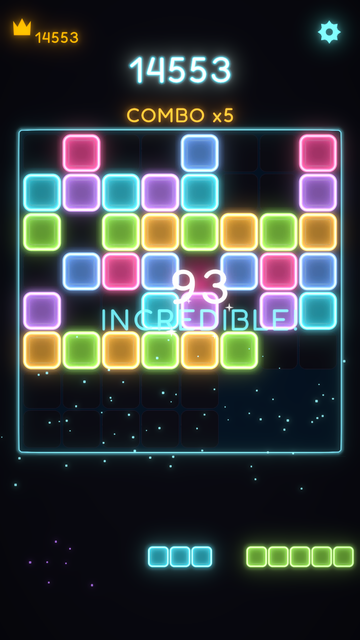
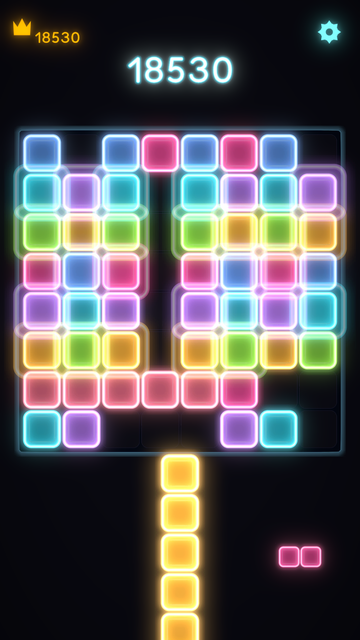
Stronger clear flare, a longer showcase clip, and a firmer praise word
The board frame could not flare because it had nowhere to go: measured at
rest its edge already sat at luminance 237, all but white, so a clear
pushed it to 252 and nobody could see the difference. Dropping the
resting edge to 150 in the sprite gives the flare headroom, and widening
the frame's outward bleed gives it light to throw.

  edge at rest -> at flare   237 -> 252   becomes   85 -> 237  (2.8x)
  light thrown past the edge  1.5x        becomes   7.3x

The praise word was thinned too far in the last pass: 0.11 outline at 8pt
lost to a board that is at its brightest exactly when the word appears.
Back to 10.5pt with a 0.16 outline, a near-white core rather than flat
cyan, and a stronger arrival flare. Saturated colour loses to a lit
board; a white core with the hue in the outline does not.

The README clip is now five placements over 8.5 seconds instead of one
drop over two. A single move is over before a viewer has worked out what
the game is.

74 EditMode tests, 455 offline assertions, all passing.

diff --git a/Assets/Scripts/GifCapture.cs b/Assets/Scripts/GifCapture.cs
@@ -26,6 +26,8 @@ public class GifCapture : MonoBehaviour
         new Color32(255, 178, 50, 255), new Color32(96, 158, 255, 255),
     };
 
+    public int Placements = 4;
+
     private IEnumerator Start()
     {
         if (string.IsNullOrEmpty(OutputDirectory)) yield break;
@@ -38,100 +40,129 @@ public class GifCapture : MonoBehaviour
         var spawn = FindAnyObjectByType<SpawnManager>();
         if (grid == null || gm == null || spawn == null) yield break;
 
-        // Let the title intro finish so it does not sit over the recording.
-        yield return new WaitForSeconds(2.2f);
+        yield return new WaitForSeconds(2.2f);   // let the title intro finish
 
         grid.ClearGrid();
         spawn.ClearTray();
         spawn.RefillTray();
-        yield return null;
+        SeedBoard(grid, 22);
+        if (ScoreManager.Instance != null) ScoreManager.Instance.ScoreTurn(400, 2);
+        yield return new WaitForSeconds(0.5f);   // let the seeding flare settle
 
-        BlockInstance piece = null;
-        Vector2Int anchor = Vector2Int.zero;
-        int bestRows = -1;
+        int frame = 0;
 
+        // Several moves rather than one: a single drop is over before a viewer has worked
+        // out what the game is. Every second placement is set up to clear, so the clip has
+        // a rhythm of ordinary moves punctuated by the thing worth showing.
+        for (int move = 0; move < Placements; move++)
+        {
+            BlockInstance piece = null;
+            Vector2Int anchor = Vector2Int.zero;
+            bool wantClear = move % 2 == 1;
+
+            if (!ChoosePlacement(grid, spawn, wantClear, ref piece, ref anchor))
+                if (!ChoosePlacement(grid, spawn, false, ref piece, ref anchor)) break;
+
+            if (wantClear) CompleteRowsAround(grid, piece, anchor);
+            yield return null;
+
+            Vector3 from = piece.transform.position;
+            Vector3 to = grid.CellToWorld(anchor.x, anchor.y) + new Vector3(0.4f, 1.2f, 0f);
+            piece.BeginDrag(from);
+
+            for (int k = 0; k < DragFrames; k++)
+            {
+                yield return new WaitForEndOfFrame();
+                Vector3 p = Vector3.Lerp(from, to, Easing.OutCubic(k / (float)(DragFrames - 1)));
+                piece.transform.position = p;
+                piece.DragTo(p, Vector3.zero);
+                Write(frame++);
+            }
+
+            piece.EndDrag();
+            gm.TryCommitPlacement(piece, anchor);
+
+            int settle = wantClear ? SettleFrames : SettleFrames / 3;
+            for (int k = 0; k < settle; k++)
+            {
+                yield return new WaitForEndOfFrame();
+                Write(frame++);
+            }
+
+            if (spawn.IsTrayEmpty) spawn.RefillTray();
+        }
+
+        Debug.Log($"[GifCapture] wrote {frame} frames to {OutputDirectory}");
+    }
+
+    /// <summary>Scatters colour over the board so a clear has something to read against.</summary>
+    private void SeedBoard(GridManager grid, int cells)
+    {
+        var single = new PlacementTable(new List<Vector2Int> { Vector2Int.zero }, grid.GridWidth, grid.GridHeight);
+        var rng = new System.Random(20260901);
+        int placed = 0, guard = 0;
+
+        while (placed < cells && guard++ < 400)
+        {
+            int x = rng.Next(grid.GridWidth);
+            int y = rng.Next(grid.GridHeight);
+            if (!grid.IsCellEmpty(x, y)) continue;
+            if (grid.TryPlace(single, x, y, Hues[(x * 3 + y * 5) % Hues.Length], out _)) placed++;
+        }
+    }
+
+    /// <summary>
+    /// Picks a tray piece and a legal anchor. When a clear is wanted it prefers a piece
+    /// spanning two or more rows, so completing them is worth watching.
+    /// </summary>
+    private bool ChoosePlacement(GridManager grid, SpawnManager spawn, bool preferTall,
+                                 ref BlockInstance piece, ref Vector2Int anchor)
+    {
+        // int.MinValue, not -1: when a short piece is wanted the score is negative, so a
+        // -1 floor rejected every candidate and the capture picked nothing at all.
+        int best = int.MinValue;
         foreach (BlockInstance p in spawn.Slots)
         {
             if (p == null || p.IsConsumed) continue;
 
             var rows = new HashSet<int>();
             foreach (Vector2Int c in p.Table.Cells) rows.Add(c.y);
-            if (rows.Count <= bestRows) continue;
+            int score = preferTall ? rows.Count : -rows.Count;
+            if (score <= best) continue;
 
-            bool placed = false;
-            for (int ay = 0; ay < grid.GridHeight && !placed; ay++)
-                for (int ax = 0; ax < grid.GridWidth && !placed; ax++)
+            for (int ay = 0; ay < grid.GridHeight; ay++)
+                for (int ax = 0; ax < grid.GridWidth; ax++)
                     if (grid.CanPlace(p.Table, ax, ay))
                     {
                         piece = p;
                         anchor = new Vector2Int(ax, ay);
-                        bestRows = rows.Count;
-                        placed = true;
+                        best = score;
+                        goto nextPiece;
                     }
+            nextPiece: ;
         }
+        return piece != null;
+    }
 
-        if (piece == null) yield break;
-
-        // Fill the whole board except the piece's target cells and a scatter of holes kept
-        // out of the rows that are about to clear. The first take cleared three rows off a
-        // half-empty board and left almost nothing behind: the clip was mostly an empty
-        // grid, so the clear had nothing to read against. A dense board that stays dense is
-        // what makes the two rows vanishing look like something happened.
+    /// <summary>Fills every row the piece will touch, except the cells it occupies.</summary>
+    private void CompleteRowsAround(GridManager grid, BlockInstance piece, Vector2Int anchor)
+    {
         var occupied = new HashSet<Vector2Int>();
-        var clearing = new HashSet<int>();
+        var rows = new HashSet<int>();
         foreach (Vector2Int c in piece.Table.Cells)
         {
             var w = new Vector2Int(anchor.x + c.x, anchor.y + c.y);
             occupied.Add(w);
-            clearing.Add(w.y);
-        }
-
-        var holes = new HashSet<Vector2Int>();
-        var rng = new System.Random(20260901);
-        while (holes.Count < 15)
-        {
-            int hx = rng.Next(grid.GridWidth);
-            int hy = rng.Next(grid.GridHeight);
-            if (clearing.Contains(hy)) continue;          // never break a row that must clear
-            holes.Add(new Vector2Int(hx, hy));
+            rows.Add(w.y);
         }
 
         var single = new PlacementTable(new List<Vector2Int> { Vector2Int.zero }, grid.GridWidth, grid.GridHeight);
-        for (int y = 0; y < grid.GridHeight; y++)
+        foreach (int y in rows)
             for (int x = 0; x < grid.GridWidth; x++)
             {
-                var cell = new Vector2Int(x, y);
-                if (occupied.Contains(cell) || holes.Contains(cell)) continue;
+                if (occupied.Contains(new Vector2Int(x, y)) || !grid.IsCellEmpty(x, y)) continue;
                 grid.TryPlace(single, x, y, Hues[(x * 3 + y * 5) % Hues.Length], out _);
             }
-
-        if (ScoreManager.Instance != null) ScoreManager.Instance.ScoreTurn(400, 2);
-        yield return null;
-
-        Vector3 from = piece.transform.position;
-        Vector3 to = grid.CellToWorld(anchor.x, anchor.y) + new Vector3(0.4f, 1.2f, 0f);
-        piece.BeginDrag(from);
-
-        int frame = 0;
-        for (int k = 0; k < DragFrames; k++)
-        {
-            yield return new WaitForEndOfFrame();
-            Vector3 p = Vector3.Lerp(from, to, Easing.OutCubic(k / (float)(DragFrames - 1)));
-            piece.transform.position = p;
-            piece.DragTo(p, Vector3.zero);
-            Write(frame++);
-        }
-
-        piece.EndDrag();
-        gm.TryCommitPlacement(piece, anchor);
-
-        for (int k = 0; k < SettleFrames; k++)
-        {
-            yield return new WaitForEndOfFrame();
-            Write(frame++);
-        }
-
-        Debug.Log($"[GifCapture] wrote {frame} frames to {OutputDirectory}");
     }
 
     private void Write(int index)

diff --git a/Assets/Scripts/PraisePopup.cs b/Assets/Scripts/PraisePopup.cs
@@ -42,14 +42,18 @@ public class PraisePopup : MonoBehaviour
     // bigger of the two. It used to be the other way round, which left the praise
     // shouting over the thing the player actually earned.
     [SerializeField] private float pointsFontSize = 13f;
-    [SerializeField] private float wordFontSize = 8f;
+    // Bumped back up from 8: the word has to hold its own over a board that is at its
+    // brightest at exactly the moment it appears, and at 8 it read as a caption.
+    [SerializeField] private float wordFontSize = 10.5f;
     [SerializeField] private Color pointsColor = Color.white;
-    [SerializeField] private Color wordColor = new Color32(120, 245, 255, 255);
+    // Near-white with a cyan bias rather than flat cyan. Saturated colour loses to a lit
+    // board; a white core with the hue carried by the outline and the bloom does not.
+    [SerializeField] private Color wordColor = new Color32(215, 252, 255, 255);
 
     [Tooltip("How far past full brightness the text is driven as it arrives. Above 1 the " +
              "glyphs clear the bloom threshold and the popup lights up rather than merely " +
              "appearing -- the same trick the landing cells and clear bands use.")]
-    [SerializeField, Range(1f, 3f)] private float arrivalFlare = 2.2f;
+    [SerializeField, Range(1f, 3f)] private float arrivalFlare = 2.6f;
 
     [Header("Stars")]
     [SerializeField, Range(0, 8)] private int starCount = 4;
@@ -150,7 +154,7 @@ public class PraisePopup : MonoBehaviour
         text.fontStyle = FontStyles.Bold;
         // Enough dark edge to survive the clear flash underneath, and no more: at 0.22 the
         // outline ate into the glyphs and the text read as blurred rather than as outlined.
-        text.outlineWidth = 0.11f;
+        text.outlineWidth = 0.16f;
         text.outlineColor = new Color32(6, 8, 18, 255);
         text.textWrappingMode = TextWrappingModes.NoWrap;
         text.sortingOrder = order;

diff --git a/Assets/Scripts/LineClearEffect.cs b/Assets/Scripts/LineClearEffect.cs
@@ -73,7 +73,7 @@ public class LineClearEffect : MonoBehaviour
 
     [Tooltip("How far a big streak overdrives the flash colour. Above 1 the frame goes " +
              "past the flash hue into white, which is what a long combo should look like.")]
-    [SerializeField, Range(1f, 3f)] private float frameFlashMaxOverdrive = 2.1f;
+    [SerializeField, Range(1f, 4f)] private float frameFlashMaxOverdrive = 3.1f;
 
     [Header("Draw Order")]
     [SerializeField] private int bandSortingOrder = 60;
